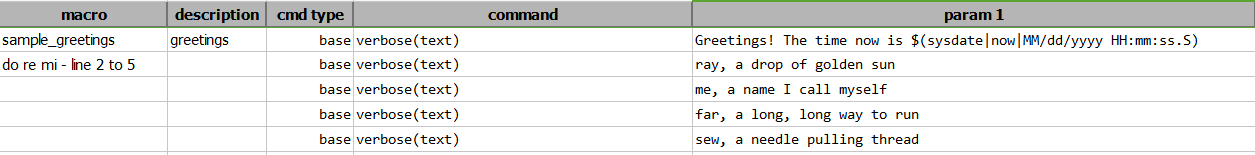
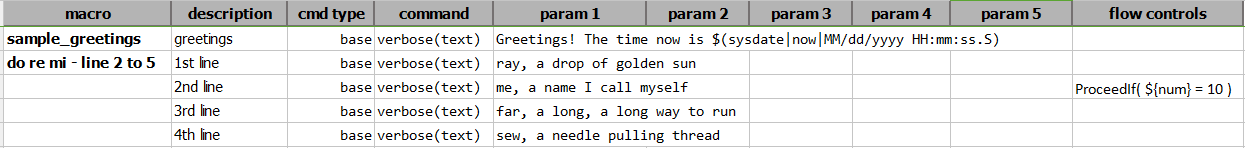
Documentation on section commands and modified macro command docs.

diff --git a/commands/base/macro(file,sheet,name).md b/commands/base/macro(file,sheet,name).md
@@ -10,10 +10,24 @@ comments: true
 ### Description
 The main idea with macro is to enable the reuse of a set of test steps.  Not only the reuse of the scripting effort, 
 but this technique also helps with the reuse of execution.  This helps to create uniformity in the execution of common
-steps.
+steps. ***Macro command is converted to section command internally.***
 
 This command includes a set of test steps that are kept within a "macro script" (more below) and execute them as part
-of the execution.  One may think of this as a form of "in-place expansion".
+of the execution.  One may think of this as a form of "in-place expansion". 
+
+[`Section command`](section(steps)) is extension of macro. Section command is evolved from the idea of having finer control 
+over flow control across entire macro or also for individual macro steps. Now macro became more flexible with this.
+
+Lets see how it is converted to section command.
+
+##### How it is converted to section
+   [`Section command`](section(steps)) is the extension of the Macro. Nexial internally converts macro command to section command. Lets walk through this.
+   1. First of all, we will get set of reusable steps from parameters of macro command and getting count of reusable steps.
+   2. Replacing base.macro(file,sheet,name) command with base.section(steps) where steps is no. of macro i.e reusable steps.
+   3. Then corresponding imported macro steps from macro file added as subsequent steps in script file.
+   4. Then it is treated as section command altogether.
+   5. Output for section command converted from macro is styled differently to give better visual against normal steps.
+   
 
 ##### Macro script
 - **Template of macro script:**<br/>
@@ -62,3 +76,4 @@ Script calling macro **Script**:<br/>
 
 
 ### See Also
+- [`section(steps)`](section(steps))

diff --git a/commands/base/section(steps).md b/commands/base/section(steps).md
@@ -1,0 +1,39 @@
+---
+layout: default
+title: section(steps)
+parent: base
+tags: command base
+comments: true
+---
+
+### Description
+Section command came into picture from the idea of having finer control over flow control across entire macro or also for 
+individual macro steps. The main idea with section is to execute subsequent steps in the section depending on condition. 
+This command includes set of steps that are immediately following.
+
+#### When to use and Why?
+This command has its own purpose like other nexial commands. This command works well when one wants to modify or change 
+execution flow for multiple subsequent commands as well as for subsequent steps. 
+
+For Example,<br>
+   1. In the execution of "search of all defective products", there might not be any defective products. It is not a 
+   application fault so one might want to ignore all subsequent steps. Instead of writing skipIf() or proceedIf() condition 
+   for all the subsequent steps which is to be ignored, write it once for entire section and add subsequent steps in the
+   section by specifying subsequent step count.
+   2. In same example, if there is defective product and further execution is likely to generate false-positive result, 
+   wants to use failIf() condition. So, one can use SkipIf() for entire section and failIf() for some of the subsequent 
+   steps where it is needed. 
+   
+### Parameters
+- **steps** \- this parameter specifies the number of subsequent (as in **immediately following**) commands to consider in a section.
+
+### Example:-
+   
+Script:-<br>
+![script](image/section_01.png)
+
+Output:-<br>
+![Output](image/section_02.png)
+
+### See Also
+- [`macro(file,sheet,name)`](macro(file,sheet,name))
